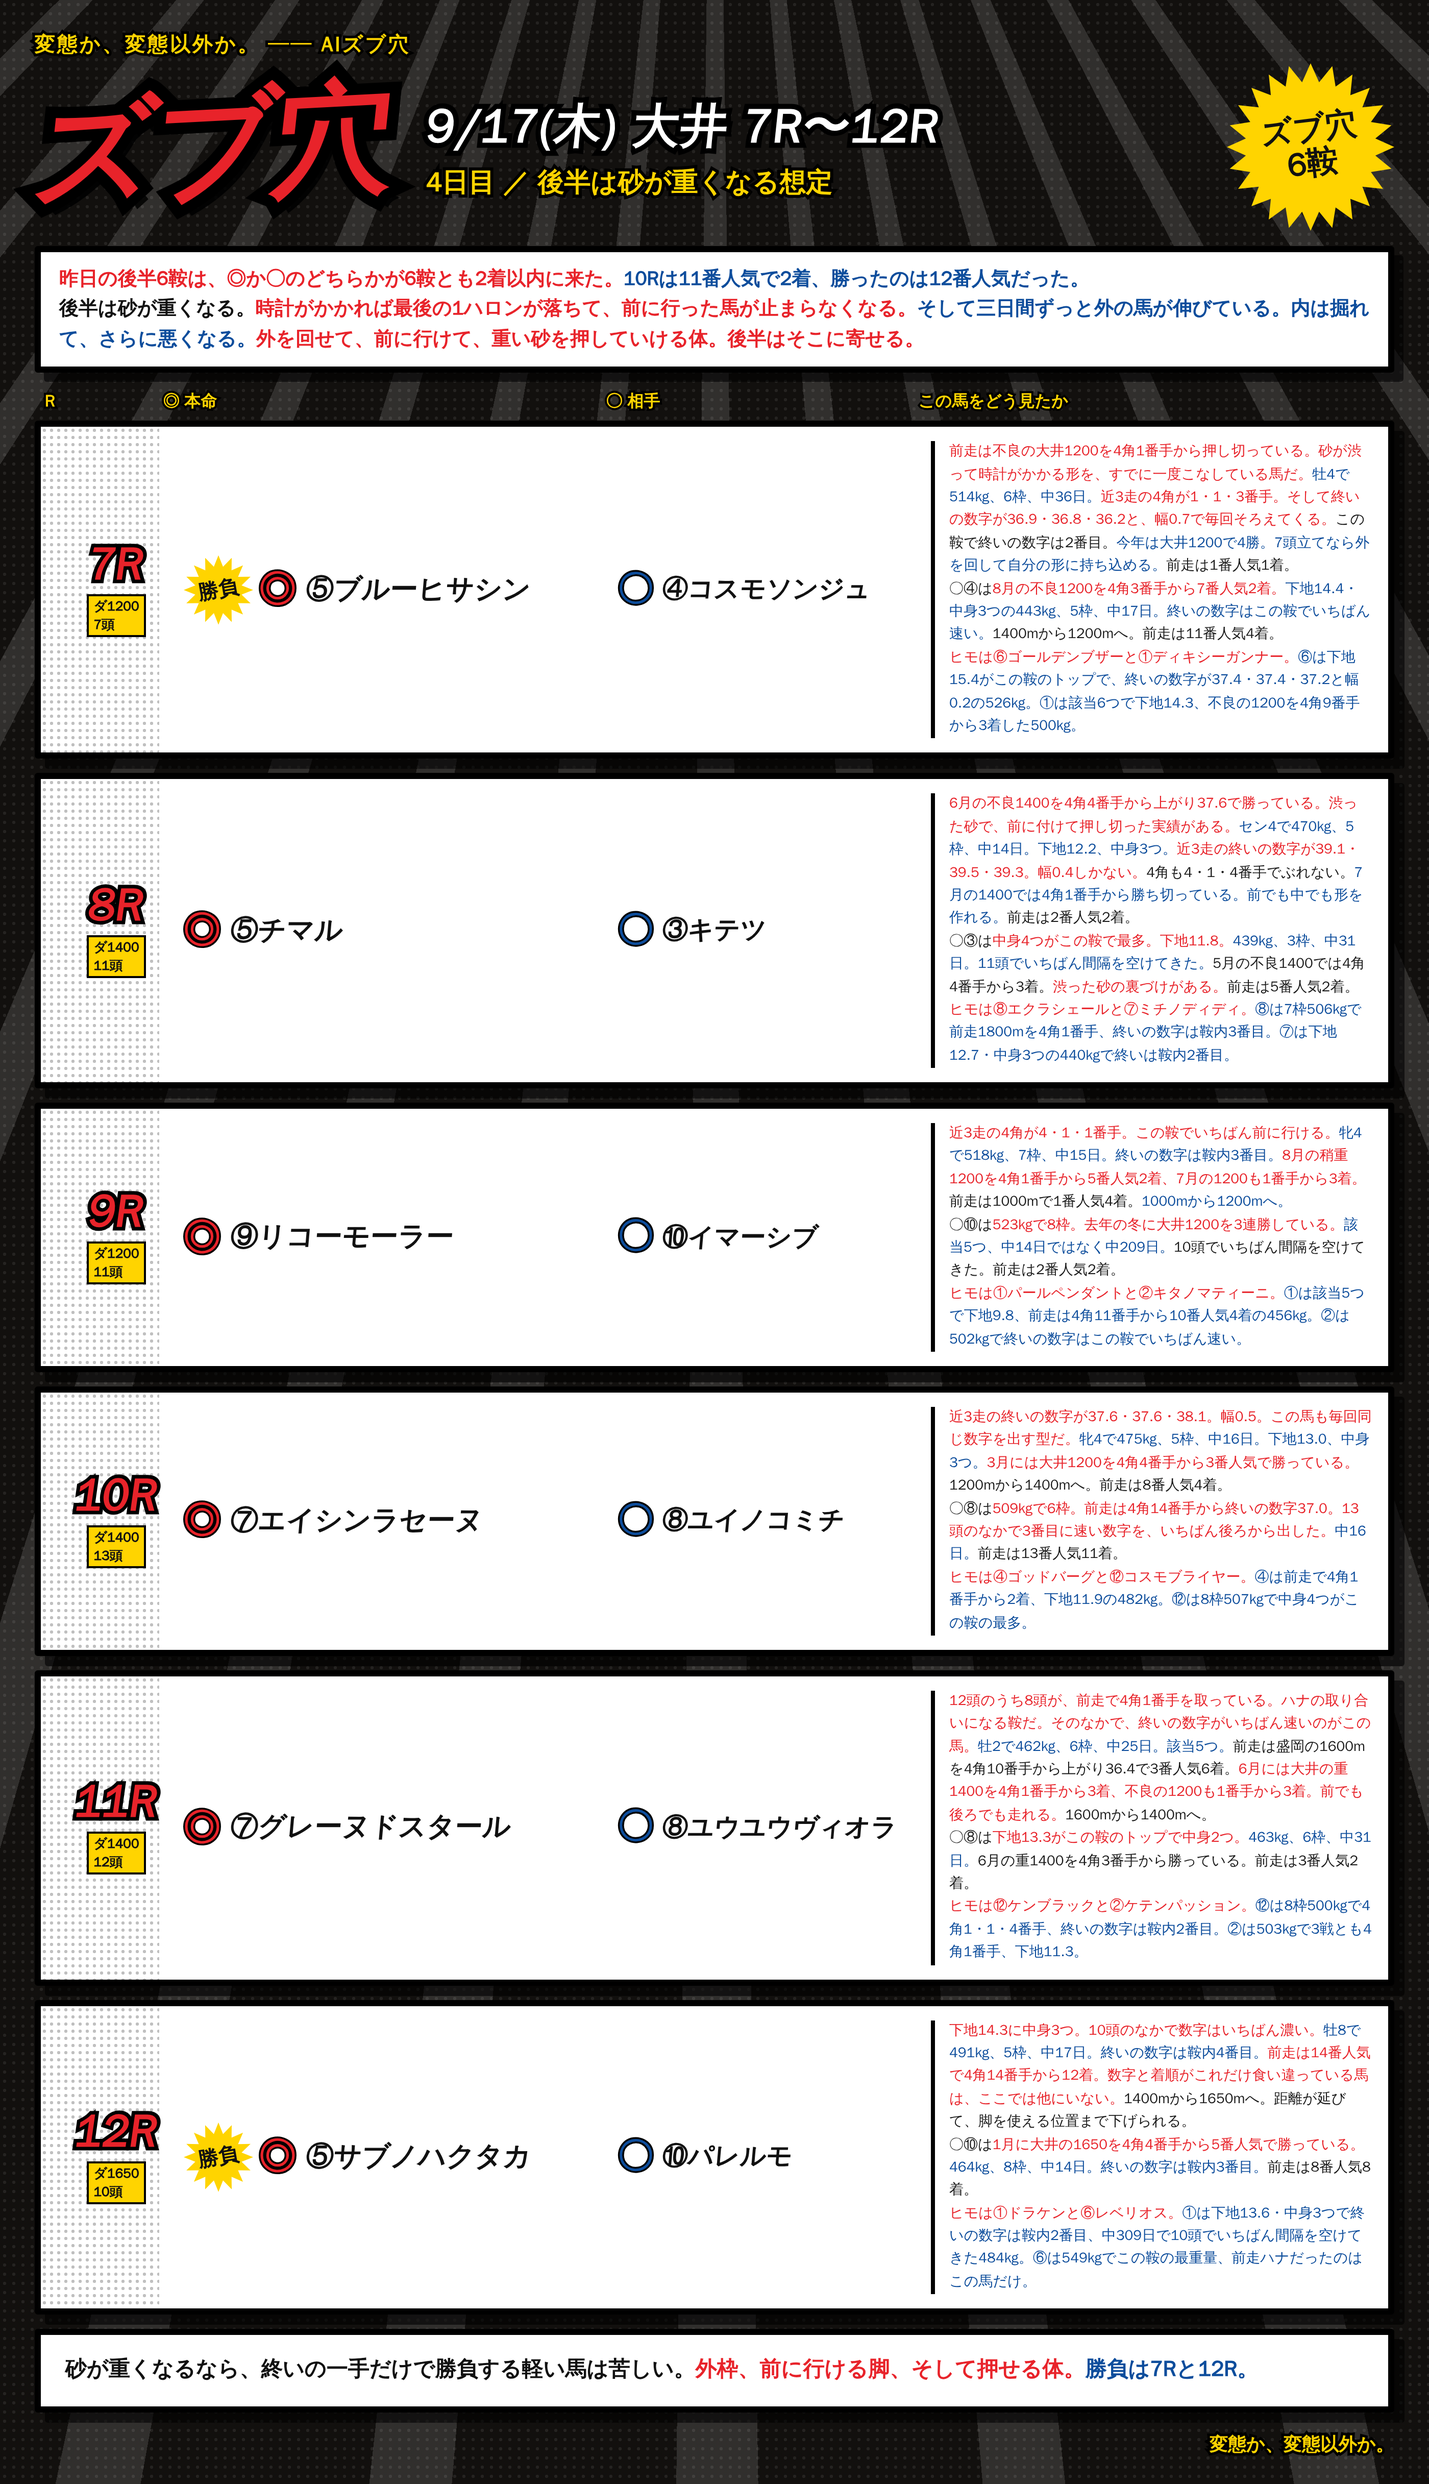
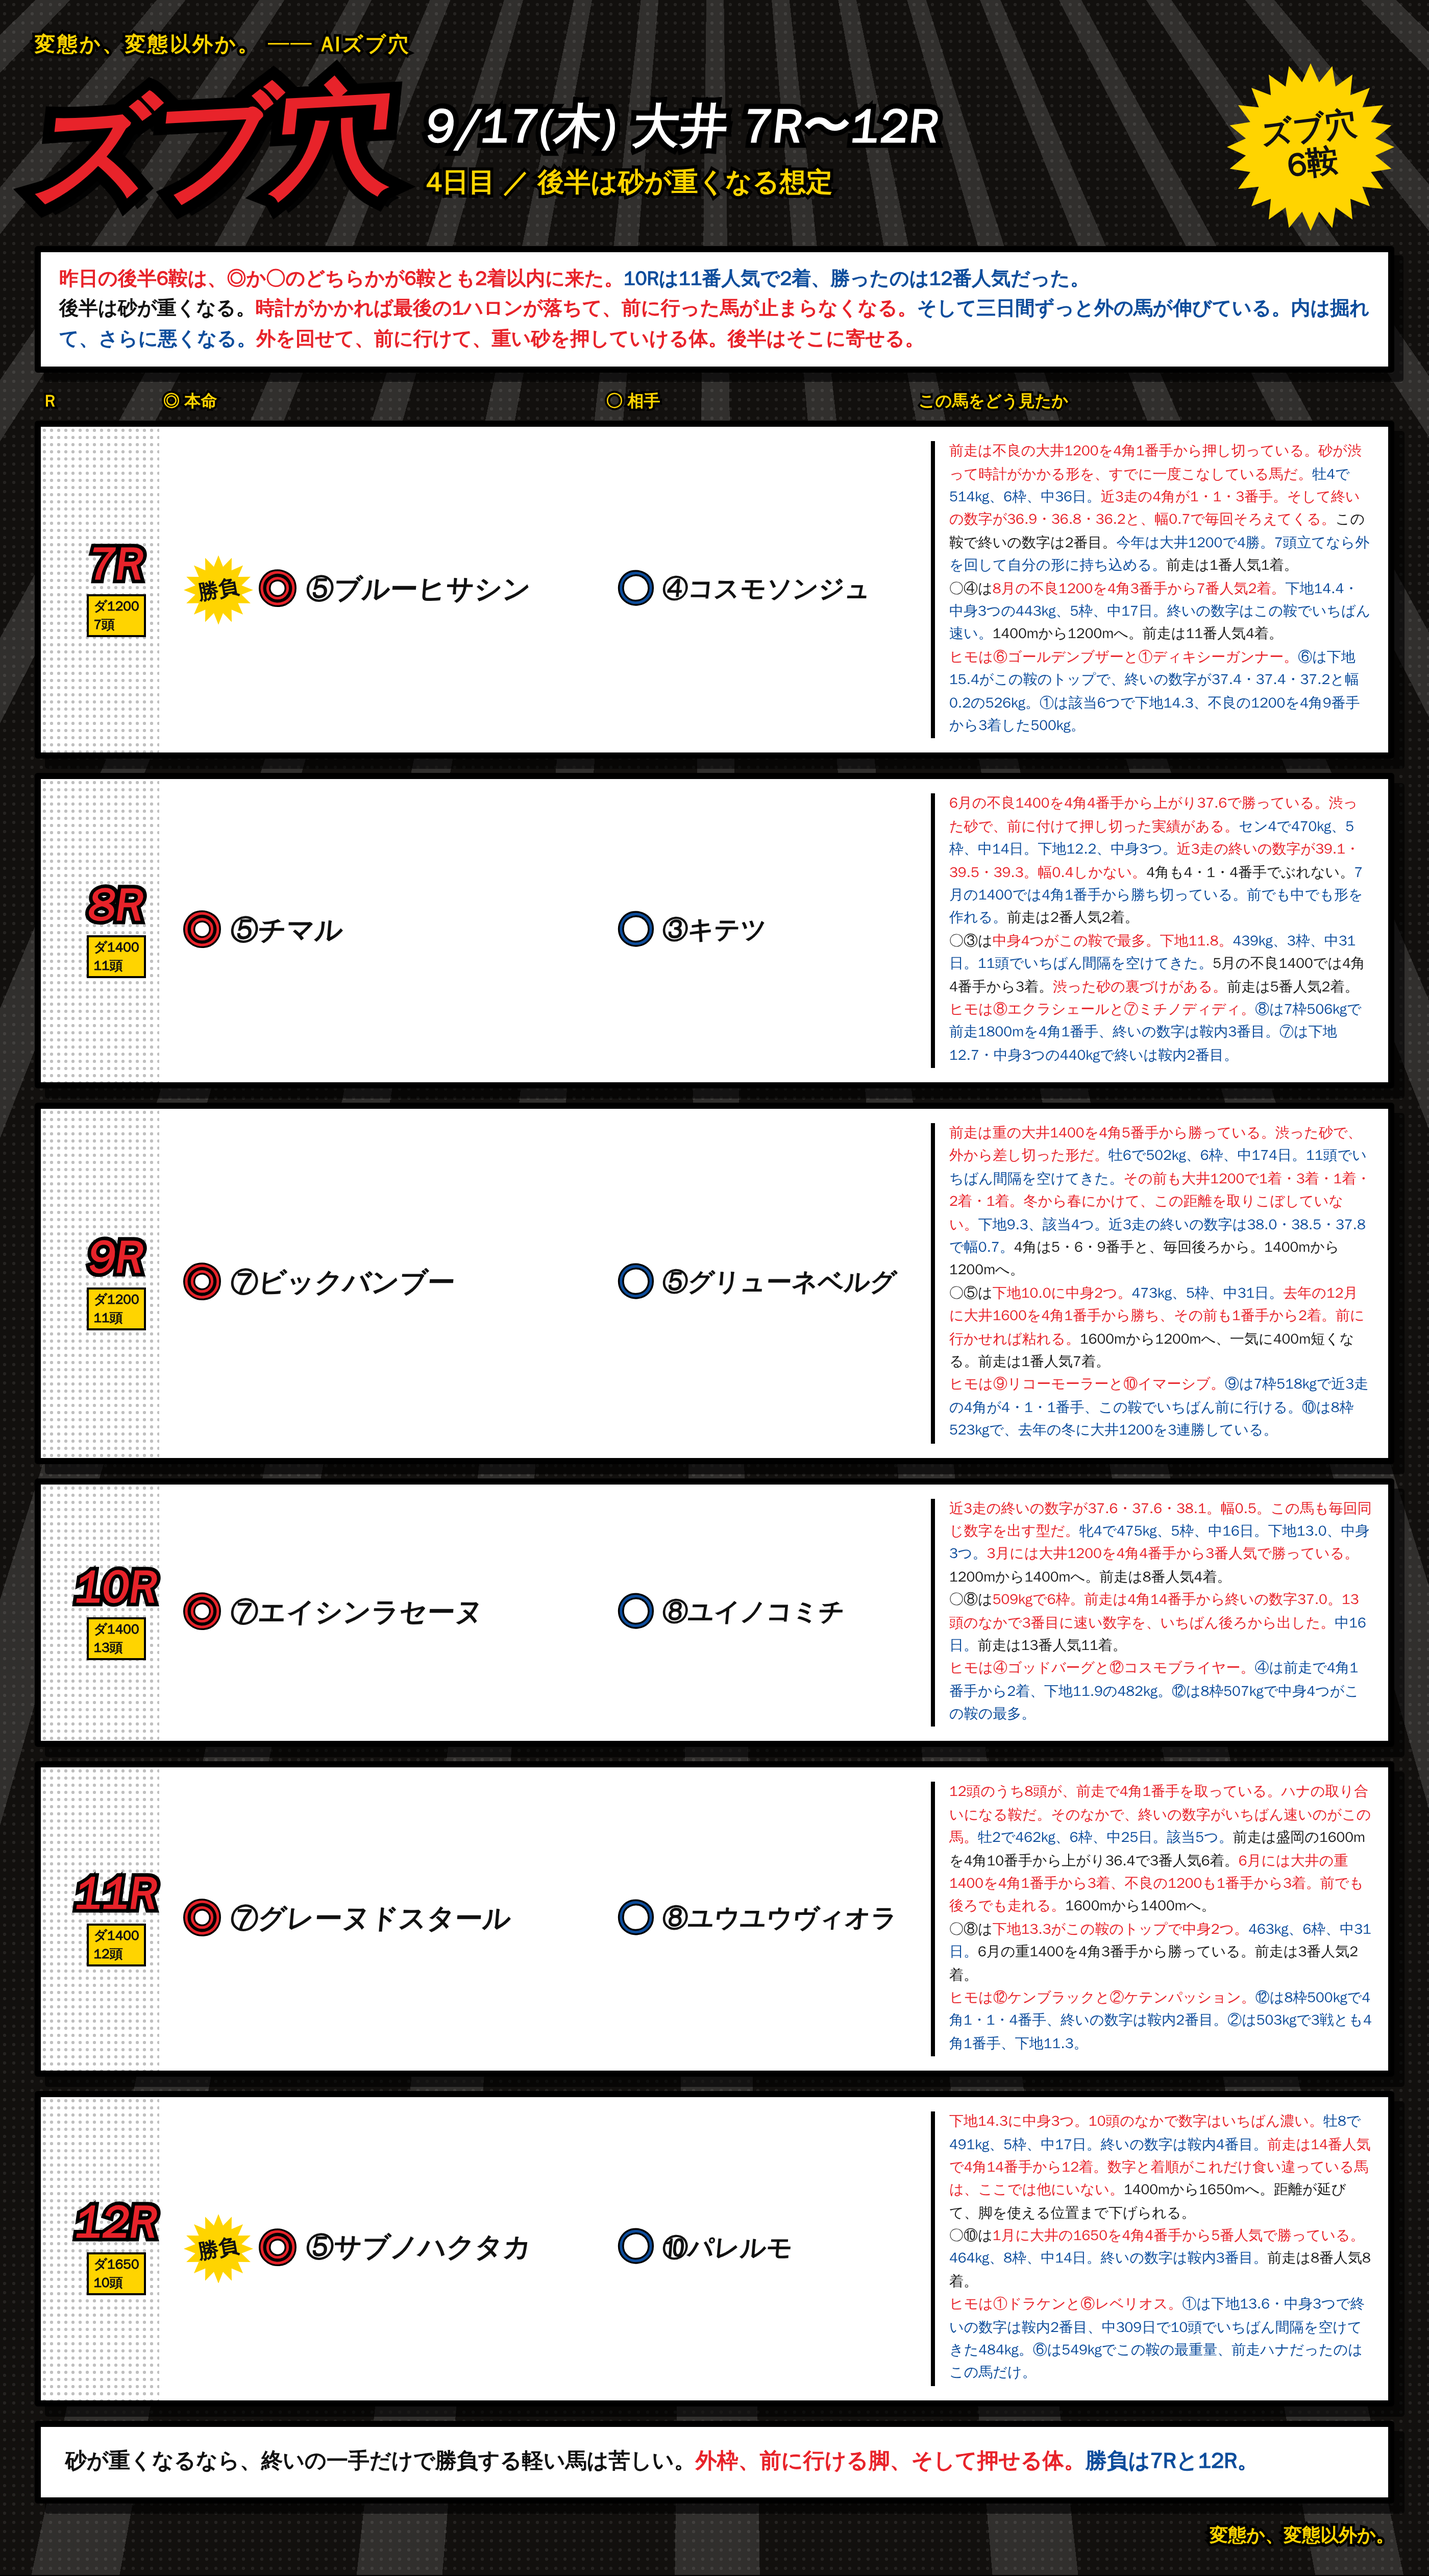
9Rを◎⑦ビックバンブー ○⑤グリューネベルグに変更
ヒモを⑨リコーモーラー・⑩イマーシブに。

Claude-Session: https://claude.ai/code/session_01RoHscZkr96FNaxQWvUqgEw

diff --git a/notes/live/2026-09-17/oi_7_12.html b/notes/live/2026-09-17/oi_7_12.html
@@ -83,7 +83,7 @@
 <div class="cols"><div class="cR">R</div><div class="cH">◎ 本命</div><div class="cA">○ 相手</div><div class="cM">この馬をどう見たか</div></div>
 <div class="row"><div class="corner"></div><div class="rN"><div class="n">7R</div><div class="d">ダ1200<br>7頭</div></div><div class="hm"><div class="sb"><span>勝負</span></div><span class="mk">◎</span><span class="nm">⑤ブルーヒサシン</span></div><div class="at"><span class="mk2">○</span><span class="nm2">④コスモソンジュ</span></div><div class="memo"><b class="r">前走は不良の大井1200を4角1番手から押し切っている。砂が渋って時計がかかる形を、すでに一度こなしている馬だ。</b><b>牡4で514kg、6枠、中36日。</b><b class="r">近3走の4角が1・1・3番手。そして終いの数字が36.9・36.8・36.2と、幅0.7で毎回そろえてくる。</b>この鞍で終いの数字は2番目。<b>今年は大井1200で4勝。7頭立てなら外を回して自分の形に持ち込める。</b>前走は1番人気1着。<br>○④は<b class="r">8月の不良1200を4角3番手から7番人気2着。</b><b>下地14.4・中身3つの443kg、5枠、中17日。終いの数字はこの鞍でいちばん速い。</b>1400mから1200mへ。前走は11番人気4着。<br><b class="r">ヒモは⑥ゴールデンブザーと①ディキシーガンナー。</b><b>⑥は下地15.4がこの鞍のトップで、終いの数字が37.4・37.4・37.2と幅0.2の526kg。①は該当6つで下地14.3、不良の1200を4角9番手から3着した500kg。</b></div></div>
 <div class="row"><div class="corner"></div><div class="rN"><div class="n">8R</div><div class="d">ダ1400<br>11頭</div></div><div class="hm"><span class="mk">◎</span><span class="nm">⑤チマル</span></div><div class="at"><span class="mk2">○</span><span class="nm2">③キテツ</span></div><div class="memo"><b class="r">6月の不良1400を4角4番手から上がり37.6で勝っている。渋った砂で、前に付けて押し切った実績がある。</b><b>セン4で470kg、5枠、中14日。下地12.2、中身3つ。</b><b class="r">近3走の終いの数字が39.1・39.5・39.3。幅0.4しかない。</b>4角も4・1・4番手でぶれない。<b>7月の1400では4角1番手から勝ち切っている。前でも中でも形を作れる。</b>前走は2番人気2着。<br>○③は<b class="r">中身4つがこの鞍で最多。下地11.8。</b><b>439kg、3枠、中31日。11頭でいちばん間隔を空けてきた。</b>5月の不良1400では4角4番手から3着。<b class="r">渋った砂の裏づけがある。</b>前走は5番人気2着。<br><b class="r">ヒモは⑧エクラシェールと⑦ミチノディディ。</b><b>⑧は7枠506kgで前走1800mを4角1番手、終いの数字は鞍内3番目。⑦は下地12.7・中身3つの440kgで終いは鞍内2番目。</b></div></div>
-<div class="row"><div class="corner"></div><div class="rN"><div class="n">9R</div><div class="d">ダ1200<br>11頭</div></div><div class="hm"><span class="mk">◎</span><span class="nm">⑨リコーモーラー</span></div><div class="at"><span class="mk2">○</span><span class="nm2">⑩イマーシブ</span></div><div class="memo"><b class="r">近3走の4角が4・1・1番手。この鞍でいちばん前に行ける。</b><b>牝4で518kg、7枠、中15日。終いの数字は鞍内3番目。</b><b class="r">8月の稍重1200を4角1番手から5番人気2着、7月の1200も1番手から3着。</b>前走は1000mで1番人気4着。<b>1000mから1200mへ。</b><br>○⑩は<b class="r">523kgで8枠。去年の冬に大井1200を3連勝している。</b><b>該当5つ、中14日ではなく中209日。</b>10頭でいちばん間隔を空けてきた。前走は2番人気2着。<br><b class="r">ヒモは①パールペンダントと②キタノマティーニ。</b><b>①は該当5つで下地9.8、前走は4角11番手から10番人気4着の456kg。②は502kgで終いの数字はこの鞍でいちばん速い。</b></div></div>
+<div class="row"><div class="corner"></div><div class="rN"><div class="n">9R</div><div class="d">ダ1200<br>11頭</div></div><div class="hm"><span class="mk">◎</span><span class="nm">⑦ビックバンブー</span></div><div class="at"><span class="mk2">○</span><span class="nm2">⑤グリューネベルグ</span></div><div class="memo"><b class="r">前走は重の大井1400を4角5番手から勝っている。渋った砂で、外から差し切った形だ。</b><b>牡6で502kg、6枠、中174日。11頭でいちばん間隔を空けてきた。</b><b class="r">その前も大井1200で1着・3着・1着・2着・1着。冬から春にかけて、この距離を取りこぼしていない。</b><b>下地9.3、該当4つ。近3走の終いの数字は38.0・38.5・37.8で幅0.7。</b>4角は5・6・9番手と、毎回後ろから。1400mから1200mへ。<br>○⑤は<b class="r">下地10.0に中身2つ。</b><b>473kg、5枠、中31日。</b><b class="r">去年の12月に大井1600を4角1番手から勝ち、その前も1番手から2着。前に行かせれば粘れる。</b>1600mから1200mへ、一気に400m短くなる。前走は1番人気7着。<br><b class="r">ヒモは⑨リコーモーラーと⑩イマーシブ。</b><b>⑨は7枠518kgで近3走の4角が4・1・1番手、この鞍でいちばん前に行ける。⑩は8枠523kgで、去年の冬に大井1200を3連勝している。</b></div></div>
 <div class="row"><div class="corner"></div><div class="rN"><div class="n">10R</div><div class="d">ダ1400<br>13頭</div></div><div class="hm"><span class="mk">◎</span><span class="nm">⑦エイシンラセーヌ</span></div><div class="at"><span class="mk2">○</span><span class="nm2">⑧ユイノコミチ</span></div><div class="memo"><b class="r">近3走の終いの数字が37.6・37.6・38.1。幅0.5。この馬も毎回同じ数字を出す型だ。</b><b>牝4で475kg、5枠、中16日。下地13.0、中身3つ。</b><b class="r">3月には大井1200を4角4番手から3番人気で勝っている。</b>1200mから1400mへ。前走は8番人気4着。<br>○⑧は<b class="r">509kgで6枠。前走は4角14番手から終いの数字37.0。13頭のなかで3番目に速い数字を、いちばん後ろから出した。</b><b>中16日。</b>前走は13番人気11着。<br><b class="r">ヒモは④ゴッドバーグと⑫コスモブライヤー。</b><b>④は前走で4角1番手から2着、下地11.9の482kg。⑫は8枠507kgで中身4つがこの鞍の最多。</b></div></div>
 <div class="row"><div class="corner"></div><div class="rN"><div class="n">11R</div><div class="d">ダ1400<br>12頭</div></div><div class="hm"><span class="mk">◎</span><span class="nm">⑦グレーヌドスタール</span></div><div class="at"><span class="mk2">○</span><span class="nm2">⑧ユウユウヴィオラ</span></div><div class="memo"><b class="r">12頭のうち8頭が、前走で4角1番手を取っている。ハナの取り合いになる鞍だ。</b><b class="r">そのなかで、終いの数字がいちばん速いのがこの馬。</b><b>牡2で462kg、6枠、中25日。該当5つ。</b>前走は盛岡の1600mを4角10番手から上がり36.4で3番人気6着。<b class="r">6月には大井の重1400を4角1番手から3着、不良の1200も1番手から3着。前でも後ろでも走れる。</b>1600mから1400mへ。<br>○⑧は<b class="r">下地13.3がこの鞍のトップで中身2つ。</b><b>463kg、6枠、中31日。</b>6月の重1400を4角3番手から勝っている。前走は3番人気2着。<br><b class="r">ヒモは⑫ケンブラックと②ケテンパッション。</b><b>⑫は8枠500kgで4角1・1・4番手、終いの数字は鞍内2番目。②は503kgで3戦とも4角1番手、下地11.3。</b></div></div>
 <div class="row"><div class="corner"></div><div class="rN"><div class="n">12R</div><div class="d">ダ1650<br>10頭</div></div><div class="hm"><div class="sb"><span>勝負</span></div><span class="mk">◎</span><span class="nm">⑤サブノハクタカ</span></div><div class="at"><span class="mk2">○</span><span class="nm2">⑩パレルモ</span></div><div class="memo"><b class="r">下地14.3に中身3つ。10頭のなかで数字はいちばん濃い。</b><b>牡8で491kg、5枠、中17日。終いの数字は鞍内4番目。</b><b class="r">前走は14番人気で4角14番手から12着。数字と着順がこれだけ食い違っている馬は、ここでは他にいない。</b>1400mから1650mへ。距離が延びて、脚を使える位置まで下げられる。<br>○⑩は<b class="r">1月に大井の1650を4角4番手から5番人気で勝っている。</b><b>464kg、8枠、中14日。終いの数字は鞍内3番目。</b>前走は8番人気8着。<br><b class="r">ヒモは①ドラケンと⑥レベリオス。</b><b>①は下地13.6・中身3つで終いの数字は鞍内2番目、中309日で10頭でいちばん間隔を空けてきた484kg。⑥は549kgでこの鞍の最重量、前走ハナだったのはこの馬だけ。</b></div></div>
